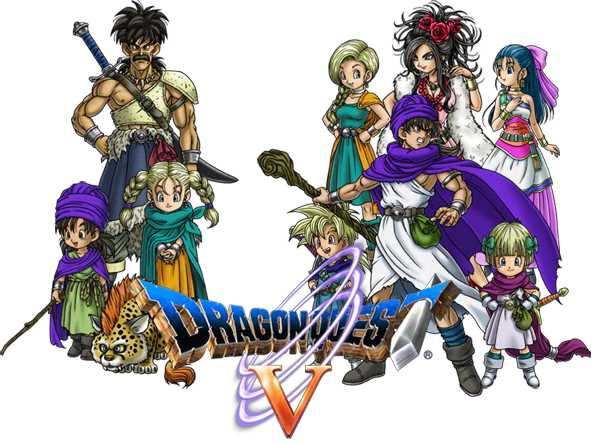
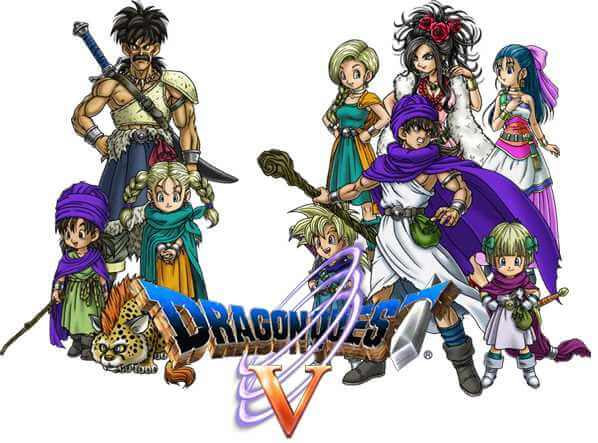
画像をパンダで圧縮

diff --git a/index.html b/index.html
@@ -21,7 +21,7 @@
   <main>
     <section class="main-title">
       <!-- <div class="pointer"></div> -->
-      <img src="./img/IMG_1364.JPG" alt="kiyodukyou">
+      <img src="./img/IMG_1364.jpeg" alt="kiyodukyou">
     </section>
     <section class="my-profile">
       <h1 id="MY">My profile</h1>
@@ -53,7 +53,7 @@
     <!-- マリオカート -->
     <section class="hobby-game">
       <div class="best2-game">
-        <img src="./img/Mario-game.JPG" alt="Mario-game" width="450px" height="300px" class="mario">
+        <img src="./img/mario.jpeg" alt="Mario-game" width="450px" height="300px" class="mario">
         <div class="game-title">
           <p class="No0">No.2</p><br>
           <p class="title">マリオカート8DX</p><br>
@@ -70,7 +70,7 @@
           <p class="title">ニーアオートマタ<br>~命もないのに殺し合う~</p><br>
           <p>魅力<br>・グラフィックが綺麗<br>・進むにつれて解き明かされていく謎<br>・キャラクターがかっこいい<br>・アクション操作が爽快的<br>・マルチバットエンディング</p>
         </div>
-        <img src="./img/nier-automata.JPG" alt="nier-automata" width="500px" height="400px">
+        <img src="./img/nier-automata.jpeg" alt="nier-automata" width="500px" height="400px">
       </div>
     </section>
   </main>
